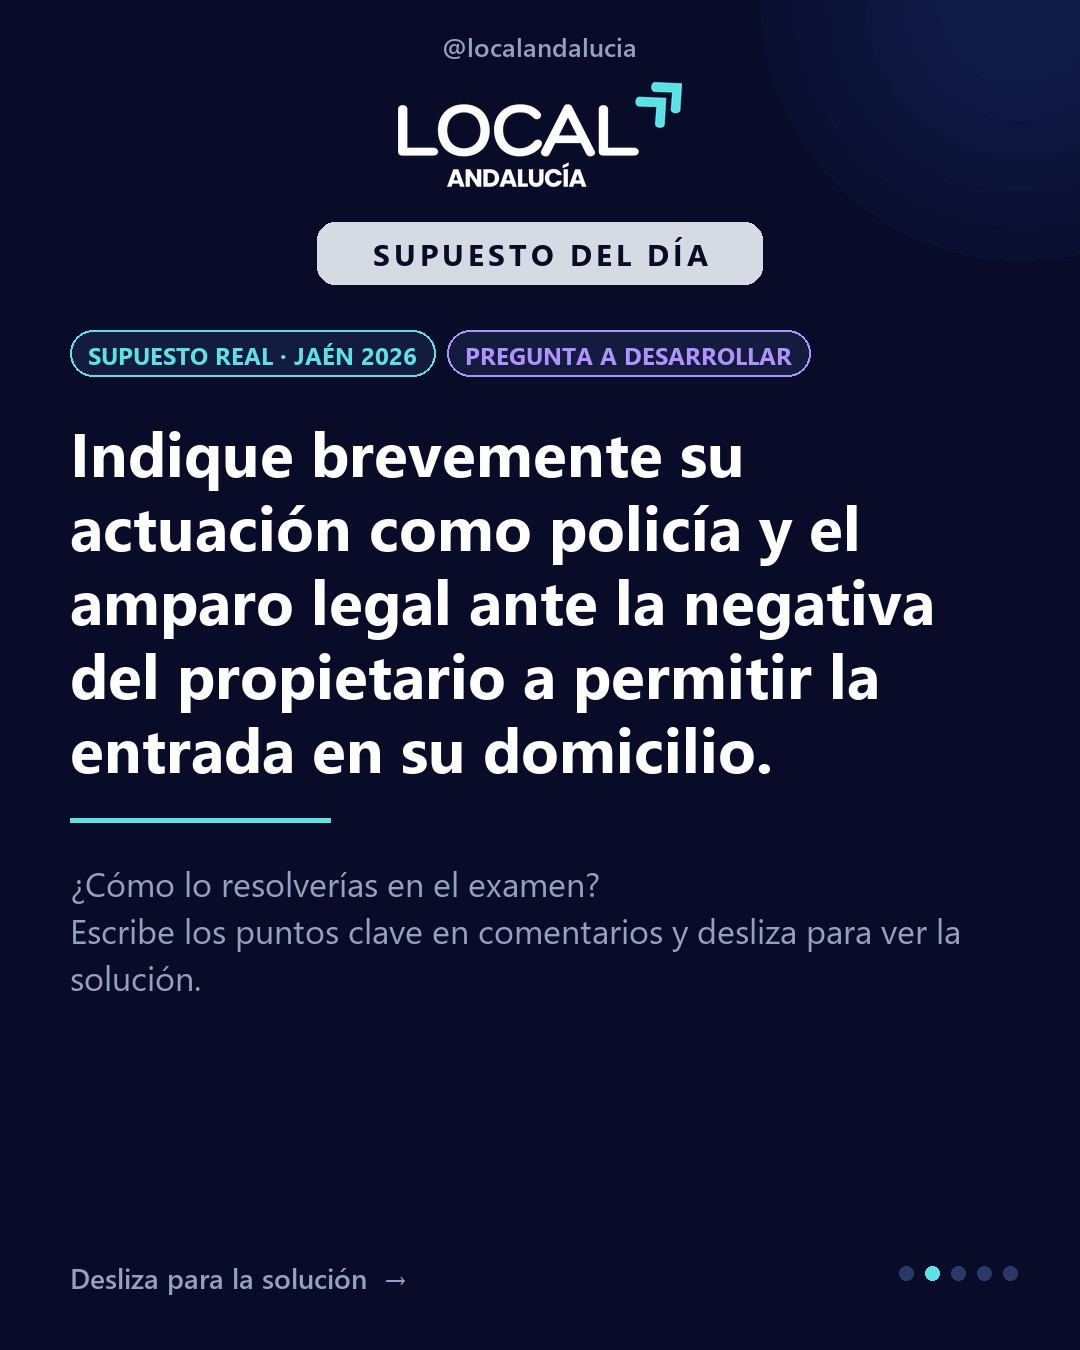
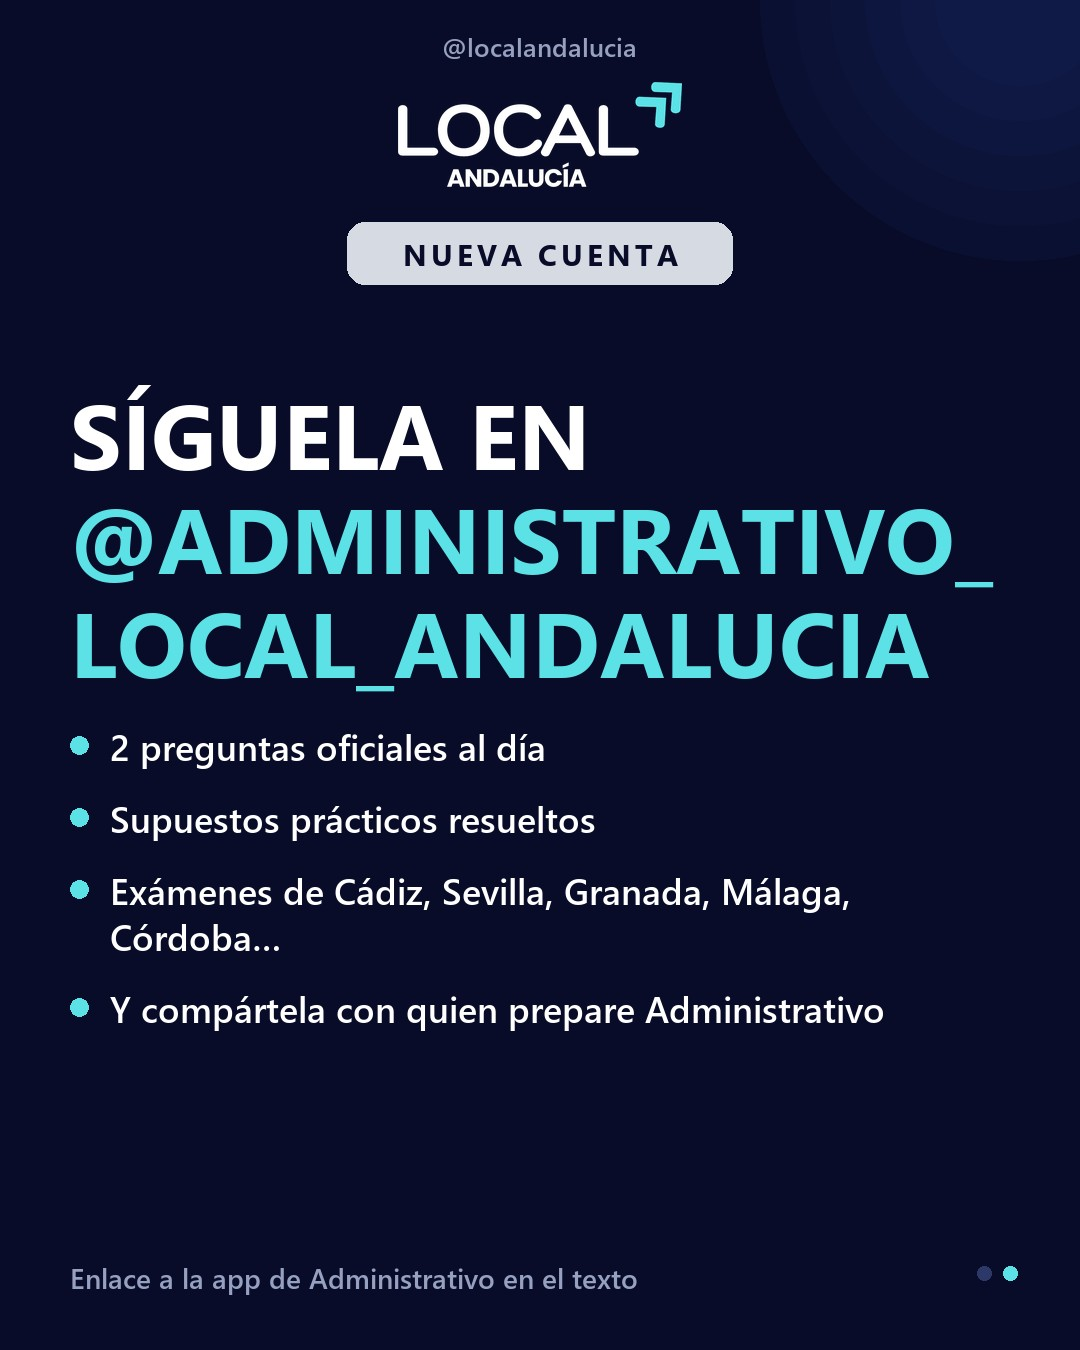
Promoción de @administrativo_local_andalucia el domingo 25 a las 20:30

diff --git a/generador/promo_administrativo.py b/generador/promo_administrativo.py
@@ -1,0 +1,103 @@
+"""Post puntual de @localandalucia presentando la cuenta hermana @administrativo_local_andalucia.
+
+    python promo_administrativo.py 2026-10-25     # lo deja en la cola como publicacion de la noche de ese dia
+
+Si ese dia ya tenia un carrusel, ese carrusel vuelve a quedar disponible para otro dia.
+"""
+import json
+import os
+import sys
+
+from PIL import Image
+
+import carrusel as C
+
+AQUI = os.path.dirname(os.path.abspath(__file__))
+REPO = os.path.abspath(os.path.join(AQUI, ".."))
+ADMIN = os.path.abspath(os.path.join(REPO, "..", "..", "ADMINISTRATIVO LOCAL ANDALUCIA", "40. INSTAGRAM"))
+
+CAPTION = """¿Opositas también a Administrativo de Ayuntamiento? 👀
+
+Muchos opositores a Policía Local se presentan además a las plazas de Administrativo y Auxiliar de los Ayuntamientos andaluces. Para ellos hemos abierto @administrativo_local_andalucia.
+
+Cada día, dos preguntas reales de exámenes oficiales de Ayuntamientos de Andalucía, con la solución y el artículo exacto.
+
+Síguela y compártela con quien esté preparando Administrativo 🙌
+
+La app para Administrativo: app.administrativolocal.com
+
+#oposicionesandalucia #administrativo #policialocal #oposiciones #ayuntamiento"""
+
+
+def slide_portada():
+    img, d = C.lienzo("NUEVA CUENTA")
+    y = C.TOP + 20
+    for texto, color in (("¿OPOSITAS", C.BLANCO), ("TAMBIÉN A", C.BLANCO), ("ADMINISTRATIVO?", C.CIAN)):
+        f, _, _ = C.ajustar(d, texto, C.TIT, C.W - 2 * C.M, 110, 96, 50, 1.0)
+        d.text((C.M, y), texto, font=f, fill=color)
+        y += 108
+    y += 30
+    sub = ("Hemos abierto @administrativo_local_andalucia: preguntas reales de exámenes de "
+           "Ayuntamientos andaluces, cada día, con la solución y el artículo.")
+    f2, l2, t2 = C.ajustar(d, sub, C.TXT, C.W - 2 * C.M, 200, 38, 26, 1.35)
+    y = C.escribir(d, (C.M, y), l2, f2, t2, C.TEXTO, 1.35) + 40
+    # muestra de un post real de la cuenta de Administrativo
+    muestra = sorted(x for x in os.listdir(os.path.join(ADMIN, "cola")) if len(x) == 10)[0]
+    prev = Image.open(os.path.join(ADMIN, "cola", muestra, "01.jpg")).convert("RGB")
+    alto = C.LIMITE - y - 10
+    prev = prev.resize((int(prev.width * alto / prev.height), alto), Image.LANCZOS)
+    x = (C.W - prev.width) // 2
+    d.rounded_rectangle((x - 8, y - 8, x + prev.width + 8, y + alto + 8), radius=18, fill=C.CIAN)
+    img.paste(prev, (x, y))
+    C.pie(d, "Desliza  →")
+    return img
+
+
+def slide_cta():
+    img, d = C.lienzo("NUEVA CUENTA")
+    y = C.TOP + 40
+    for texto, color in (("SÍGUELA EN", C.BLANCO), ("@ADMINISTRATIVO_", C.CIAN), ("LOCAL_ANDALUCIA", C.CIAN)):
+        f, _, _ = C.ajustar(d, texto, C.TIT, C.W - 2 * C.M, 110, 92, 46, 1.0)
+        d.text((C.M, y), texto, font=f, fill=color)
+        y += 104
+    y += 40
+    puntos = ["2 preguntas oficiales al día", "Supuestos prácticos resueltos",
+              "Exámenes de Cádiz, Sevilla, Granada, Málaga, Córdoba…", "Y compártela con quien prepare Administrativo"]
+    f3 = C.fuente(C.TXT_SB, 36)
+    for p in puntos:
+        d.ellipse((C.M, y + 14, C.M + 18, y + 32), fill=C.CIAN)
+        lineas = C.envolver(d, p, f3, C.W - 2 * C.M - 50)
+        y = C.escribir(d, (C.M + 40, y), lineas, f3, 36, C.BLANCO, 1.3) + 26
+    C.pie(d, "Enlace a la app de Administrativo en el texto")
+    return img
+
+
+def main():
+    fecha = sys.argv[1]
+    carpeta = os.path.join(REPO, "cola", fecha)
+    usadas_p = os.path.join(REPO, "estado", "usadas.json")
+    usadas = json.load(open(usadas_p, encoding="utf-8"))
+    viejo = os.path.join(carpeta, "meta.json")
+    if os.path.exists(viejo):  # el carrusel que habia ese dia vuelve a estar disponible
+        meta_vieja = json.load(open(viejo, encoding="utf-8"))
+        usadas.pop(meta_vieja.get("id"), None)
+        for f in os.listdir(carpeta):
+            os.remove(os.path.join(carpeta, f))
+    os.makedirs(carpeta, exist_ok=True)
+    imgs = [slide_portada(), slide_cta()]
+    nombres = []
+    for i, img in enumerate(imgs, 1):
+        C.puntos(img, i - 1, len(imgs))
+        n = f"{i:02d}.jpg"
+        img.save(os.path.join(carpeta, n), "JPEG", quality=90, optimize=True, progressive=True)
+        nombres.append(n)
+    open(os.path.join(carpeta, "caption.txt"), "w", encoding="utf-8").write(CAPTION)
+    meta = {"fecha": fecha, "franja": "noche", "id": f"promo-administrativo-{fecha}", "formato": "promo",
+            "convocatoria": "", "tema": "promo", "caso": "", "imagenes": nombres}
+    json.dump(meta, open(os.path.join(carpeta, "meta.json"), "w", encoding="utf-8"), ensure_ascii=False, indent=1)
+    json.dump(usadas, open(usadas_p, "w", encoding="utf-8"), ensure_ascii=False, indent=1, sort_keys=True)
+    print(carpeta)
+
+
+if __name__ == "__main__":
+    main()
